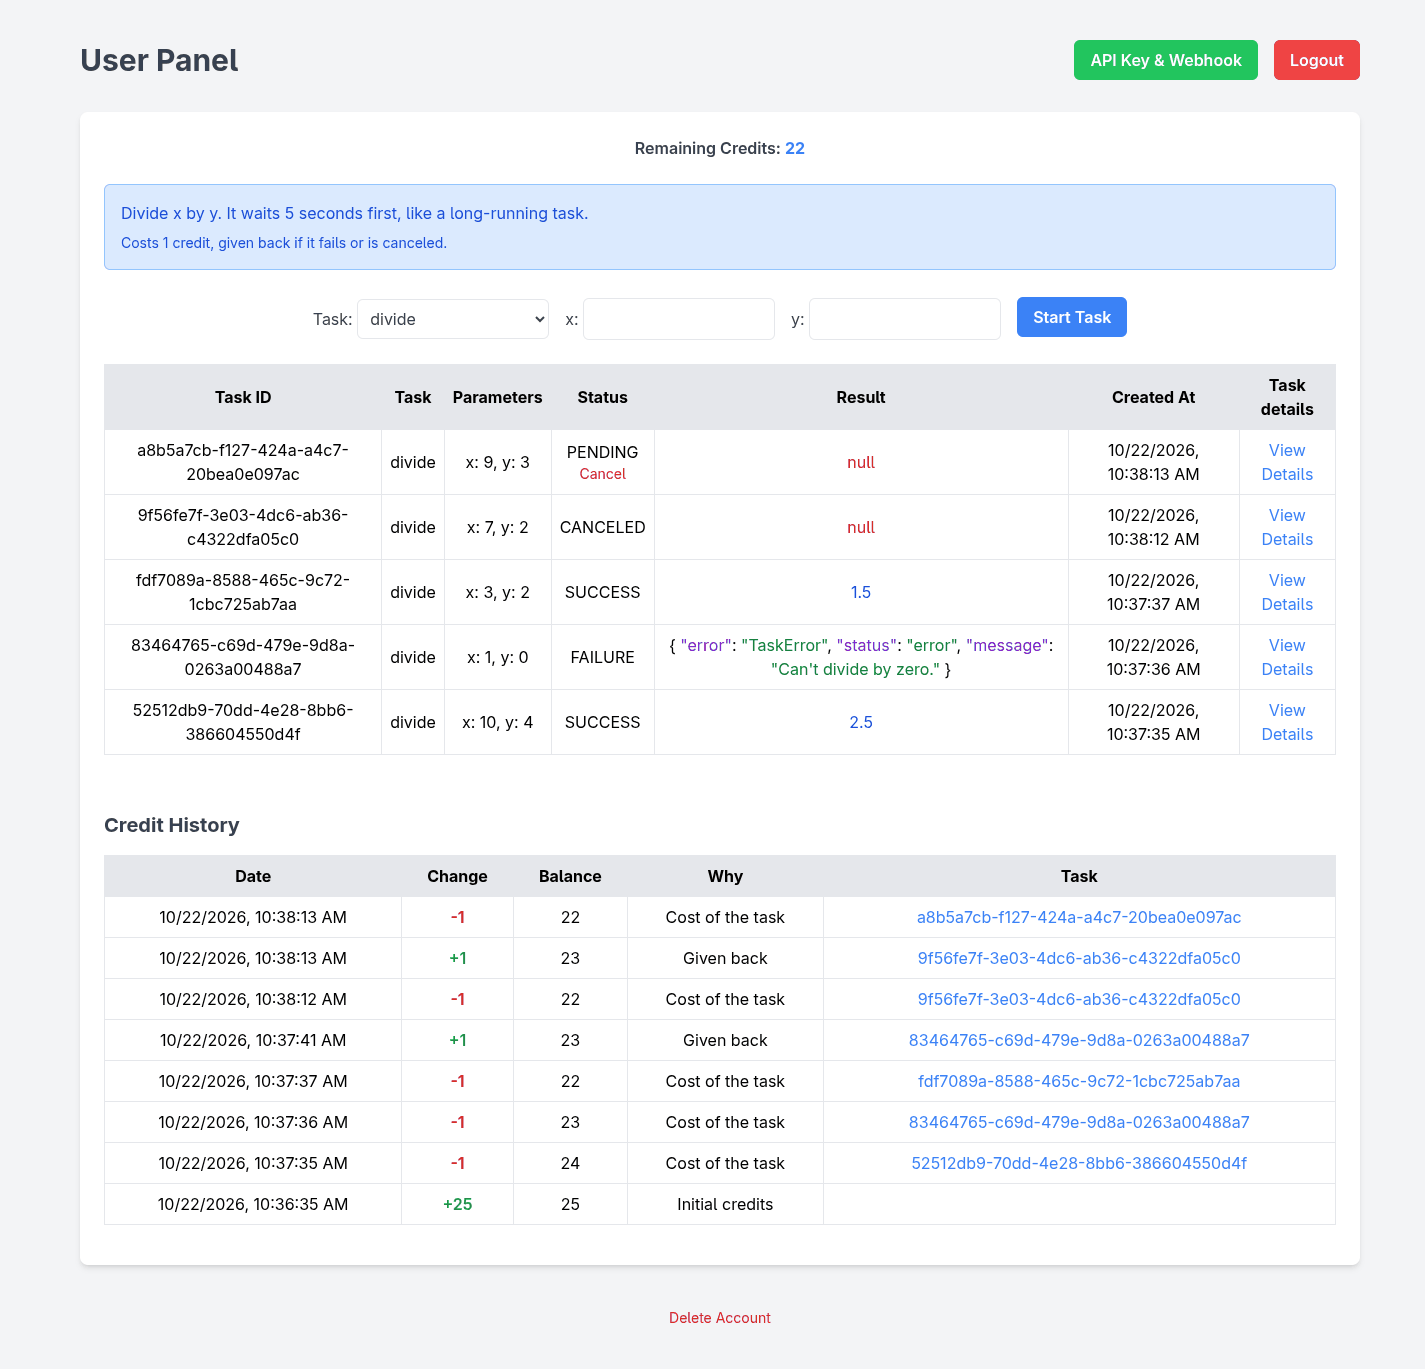
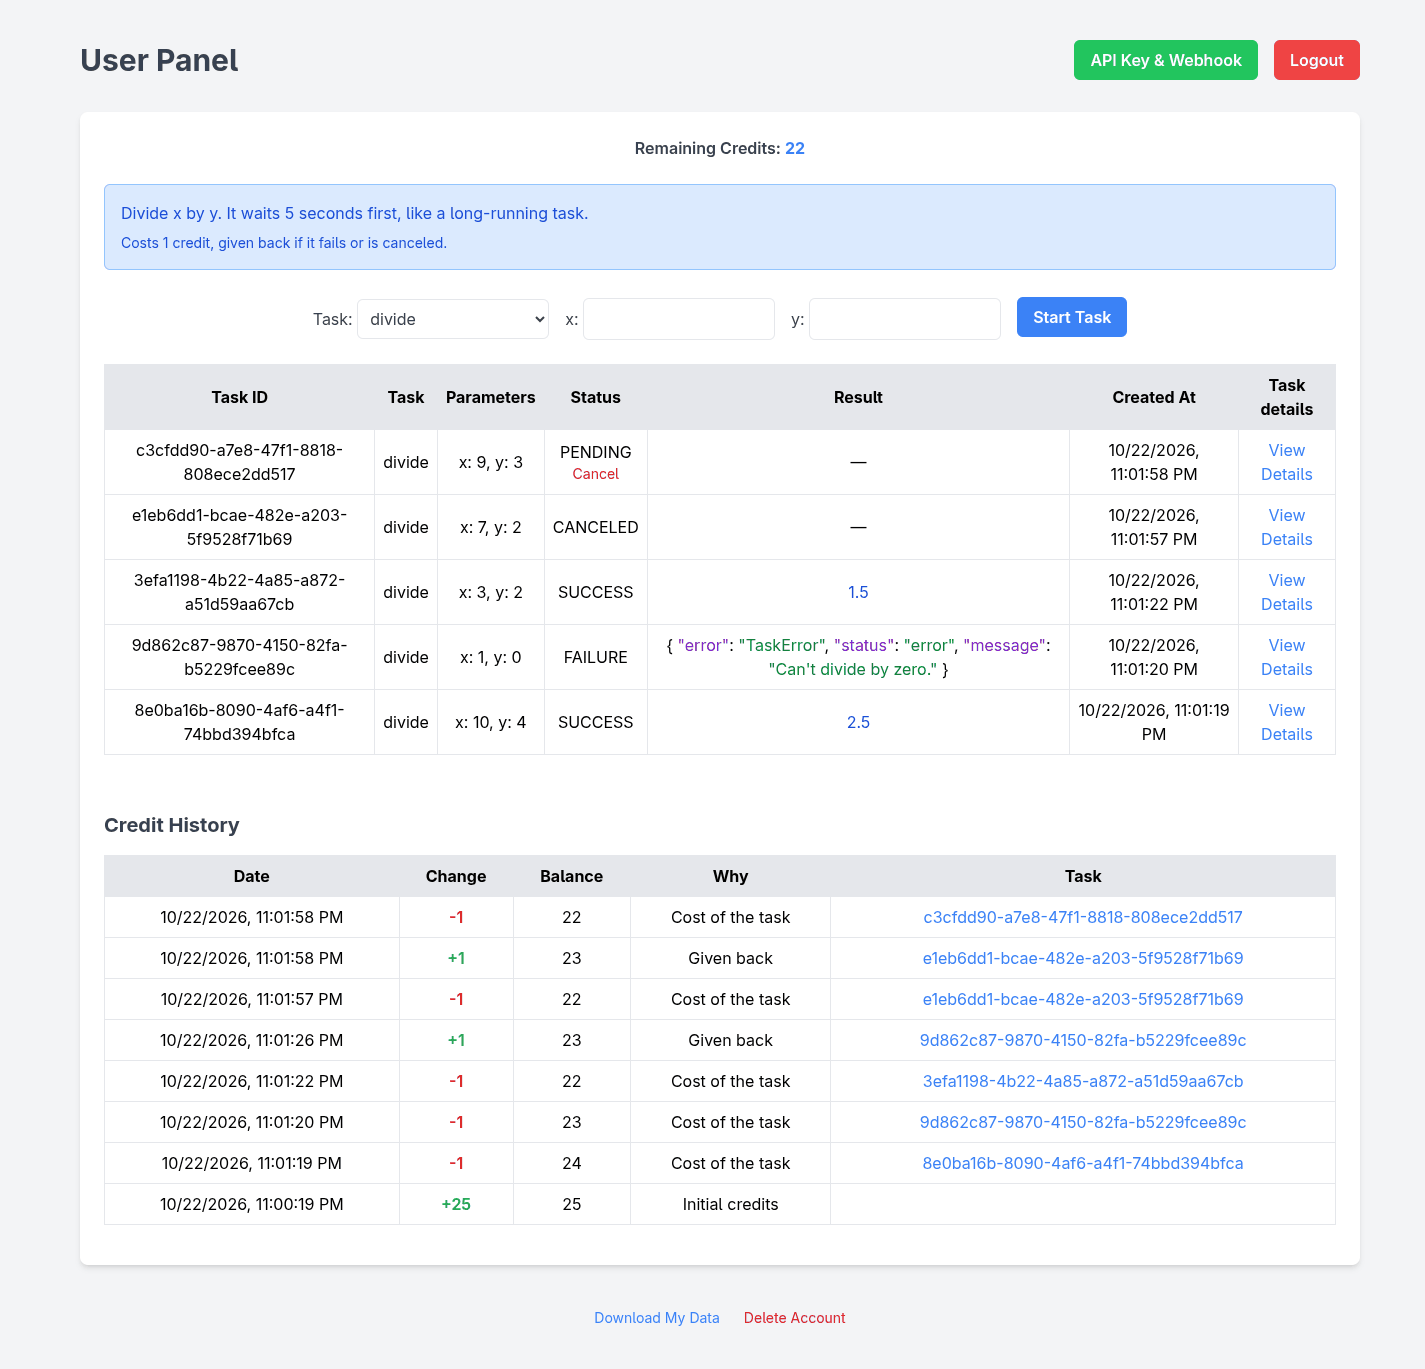
Showing a dash as the result of pending and canceled tasks, with the README's screenshot taken again, and letting browsers keep the static files for a year when their URL has their hash.

diff --git a/web/templates/task_details.html b/web/templates/task_details.html
@@ -24,7 +24,7 @@
             <p class="text-gray-700"><strong>Cost in credits:</strong> <span x-text="task.cost"></span></p>
             <p class="text-gray-700"><strong>Created At:</strong> <span x-text="task.created_at"></span></p>
             <p class="text-gray-700 mt-4"><strong>Result:</strong></p>
-            <pre class="mt-1 p-3 bg-gray-50 border border-gray-200 rounded-md text-sm overflow-x-auto"><code x-effect="showJson($el, task.result)"></code></pre>
+            <pre class="mt-1 p-3 bg-gray-50 border border-gray-200 rounded-md text-sm overflow-x-auto"><code x-effect="showResult($el, task)"></code></pre>
             <a href="{{ root_prefix }}/userpanel" class="mt-4 inline-block bg-blue-500 hover:bg-blue-600 text-white font-semibold py-2 px-4 rounded-md">
                 Back to Dashboard
             </a>

diff --git a/web/static/task_details.js b/web/static/task_details.js
@@ -35,9 +35,15 @@ function taskDetails() {
             return JSON.stringify(this.task.parameters, null, 2);
         },
 
-        // The result's JSON, with its colors, in the element.
-        showJson(element, value) {
-            element.innerHTML = highlightJson(value);
+        // The result in the element: its JSON, with its colors, once the task ended,
+        // as SUCCESS or FAILURE, and a dash before, or if it was canceled. A task
+        // that returned None has null.
+        showResult(element, task) {
+            if (['SUCCESS', 'FAILURE'].includes(task.status)) {
+                element.innerHTML = highlightJson(task.result);
+            } else {
+                element.textContent = '—';
+            }
         },
 
         fetchTaskDetails(taskId) {

diff --git a/web/static/user_panel.js b/web/static/user_panel.js
@@ -132,9 +132,15 @@ function taskManager() {
             return JSON.stringify(option);
         },
 
-        // A result's JSON, with its colors, in the element.
-        showJson(element, value) {
-            element.innerHTML = highlightJson(value);
+        // A task's result in the element: its JSON, with its colors, once it ended,
+        // as SUCCESS or FAILURE, and a dash before, or if it was canceled. A task
+        // that returned None has null.
+        showResult(element, task) {
+            if (['SUCCESS', 'FAILURE'].includes(task.status)) {
+                element.innerHTML = highlightJson(task.result);
+            } else {
+                element.textContent = '—';
+            }
         },
 
         // The page of a task, or of a movement's task.

diff --git a/web/templates/user_panel.html b/web/templates/user_panel.html
@@ -122,7 +122,7 @@
                                         <button x-on:click="cancelTask(task)" class="block mx-auto text-sm text-red-600 hover:underline">Cancel</button>
                                     </template>
                                 </td>
-                                <td class="border p-2 text-center" x-effect="showJson($el, task.result)"></td>
+                                <td class="border p-2 text-center" x-effect="showResult($el, task)"></td>
                                 <td class="border p-2 text-center" x-text="task.created_at"></td>
                                 <td class="border p-2 text-center">
                                     <a :href="detailsUrl(task)" class="text-blue-500 hover:underline">View Details</a>

diff --git a/web/static/json.js b/web/static/json.js
@@ -1,6 +1,6 @@
 // highlightJson(value): the value as JSON, in HTML, with its keys, strings,
 // numbers, and true, false and null in spans of Tailwind colors. The pages put
-// it in an element's innerHTML with showJson(), from x-effect: Alpine's CSP
+// it in an element's innerHTML with showResult(), from x-effect: Alpine's CSP
 // build has no x-html.
 // scripts/build_css.py reads this file too, for these classes.
 

diff --git a/main_api.py b/main_api.py
@@ -58,7 +58,8 @@ from tortoise.transactions import in_transaction
 
 from fastapi.staticfiles import StaticFiles
 
-from starlette.datastructures import Headers, MutableHeaders
+from starlette.datastructures import Headers, MutableHeaders, QueryParams
+from starlette.responses import Response
 
 from pydantic import BaseModel, ConfigDict, Field, create_model
 
@@ -238,7 +239,31 @@ app.add_middleware(SecurityHeadersMiddleware)
 
 # Mount static files directory
 STATIC_DIRECTORY = Path("web/static")
-app.mount("/web/static", StaticFiles(
+# How browsers and proxies keep a static file whose URL has the hash of what the
+# server has, from static_url(): for a year, without asking for it again, even
+# when the page reloads. The next version of the file has another URL.
+CACHE_FOR_A_YEAR = "public, max-age=31536000, immutable"
+
+
+class VersionedStaticFiles(StaticFiles):
+    """
+    The files of web/static, kept for a year when their URL has their hash
+    (see static_url()). Not others, nor one with another hash: in a deploy,
+    a page's new URL may reach a server that still has the old file.
+    """
+
+    async def get_response(self, path: str, scope) -> Response:
+        response = await super().get_response(path, scope)
+        version = QueryParams(scope["query_string"]).get("v")
+        # A 304 too, for a browser that asks again anyway.
+        if version is not None and response.status_code in (200, 304):
+            file = STATIC_DIRECTORY / path
+            if version == content_version(file, file.stat().st_mtime_ns):
+                response.headers["Cache-Control"] = CACHE_FOR_A_YEAR
+        return response
+
+
+app.mount("/web/static", VersionedStaticFiles(
         directory=STATIC_DIRECTORY
     ),
     name="static"
@@ -254,10 +279,9 @@ def content_version(path: Path, modified: int) -> str:
 def static_url(name: str) -> str:
     """
     The URL of a file of web/static for the templates, with ?v= and a hash
-    of its contents. The files are served without Cache-Control, so browsers
-    reuse them for a while without asking, guessing from how old they are.
-    With the hash, a file's URL changes with it: after a deploy that changes
-    it, browsers get the new one.
+    of its contents. With the hash, a file's URL changes with it, so browsers
+    keep each one for a year without asking for it again (see
+    VersionedStaticFiles): after a deploy that changes it, they get the new one.
     """
     path = STATIC_DIRECTORY / name
     return f"{root_prefix}/web/static/{name}?v={content_version(path, path.stat().st_mtime_ns)}"

diff --git a/tests/test_pages.py b/tests/test_pages.py
@@ -13,6 +13,8 @@ pytestmark = pytest.mark.anyio
 
 REPO = Path(__file__).resolve().parent.parent
 EXPIRED = datetime.timedelta(minutes=-1)
+# How the static files whose URL has their hash are cached: for a year, without asking again.
+YEAR = "public, max-age=31536000, immutable"
 
 
 async def test_public_pages_and_static_files(anon):
@@ -83,6 +85,21 @@ def test_the_url_of_a_static_file_changes_with_it(app_module, tmp_path, monkeypa
     modified = script.stat().st_mtime_ns + 1_000_000_000
     os.utime(script, ns=(modified, modified))
     assert app_module.static_url("app.js") == f"/web/static/app.js?v={hashlib.sha256(b'two').hexdigest()[:12]}"
+
+
+async def test_a_static_file_with_its_hash_is_kept_for_a_year(anon, app_module):
+    # As the templates link it: its URL changes with it.
+    url = app_module.static_url("json.js")
+    r = await anon.get(url)
+    assert (r.status_code, r.headers["cache-control"]) == (200, YEAR)
+    # A browser that asks again anyway gets a 304, which says so too.
+    r = await anon.get(url, headers={"If-None-Match": r.headers["etag"]})
+    assert (r.status_code, r.headers["cache-control"]) == (304, YEAR)
+    # Not without the hash, nor with another one, like a URL of an old page after a
+    # deploy, or a new one that reaches a server not updated yet: it isn't that file.
+    for other in ("/web/static/json.js", "/web/static/json.js?v=000000000000", f"{url}0"):
+        r = await anon.get(other)
+        assert (r.status_code, r.headers.get("cache-control")) == (200, None), other
 
 
 def test_the_pages_load_their_scripts_and_styles_from_this_server():
@@ -161,3 +178,5 @@ async def test_pages_and_links_with_a_root_path(prefixed_server):
         assert 'href="/nanosaas/web/static/tailwind.css?v=' in r.text
         assert '<img src="/nanosaas/web/static/nanosaas_logo.svg?v=' in r.text
         assert (await client.get("/nanosaas/web/static/nanosaas_logo.svg")).status_code == 200
+        css = re.search(r'href="(/nanosaas/web/static/tailwind\.css\?v=\w+)"', r.text).group(1)
+        assert (await client.get(css)).headers["cache-control"] == YEAR

diff --git a/README.md b/README.md
@@ -255,7 +255,7 @@ It replaces the whole database, in a single transaction: if anything fails, the 
     ```
 
    Return plain Python values (dicts, lists, numbers or strings): TaskIQ turns them into JSON. Don't return `json.dumps(...)`: the result would be saved as a string, and the API would show it with escaped quotes.
-7. Customize the pages in `web/templates/`. Put images, icons and other static files in `web/static/`: they are served at `/web/static/`. In the templates, get their URLs with `static_url()`, as the logo in `login.html` does: `{{ static_url('nanosaas_logo.svg') }}`. It adds the `ROOT_PATH`, and a hash of the file, so after a deploy that changes it, browsers get the new one instead of reusing the copy they kept.
+7. Customize the pages in `web/templates/`. Put images, icons and other static files in `web/static/`: they are served at `/web/static/`. In the templates, get their URLs with `static_url()`, as the logo in `login.html` does: `{{ static_url('nanosaas_logo.svg') }}`. It adds the `ROOT_PATH`, and a hash of the file, so its URL changes with it: browsers keep each file for a year without asking for it again, even when the page reloads (`Cache-Control: immutable`), and after a deploy that changes it, they get the new one. A URL without the hash, or with another one, isn't kept that long.
 
    The pages' scripts are files there too, like `user_panel.js` for `user_panel.html`, and take the `ROOT_PATH` from the `data-root-prefix` of the page's `<html>`. Every response has a Content-Security-Policy (`CONTENT_SECURITY_POLICY` in `main_api.py`) that lets the pages load only this server's files, and blocks scripts and styles written in the page, like `<script>` blocks and `onclick` or `style` attributes: the usual way injected HTML runs its code. For events, use the attributes of Alpine.js, like `x-on:click`, or listeners in the page's script. The policy has no `'unsafe-eval'`: the pages load Alpine.js's CSP build, which reads the expressions of its attributes itself, instead of running them as JavaScript. They can use the component's data and methods, with operators, comparisons and calls, but not arrow functions, template literals, `?.`, `??`, `new`, nor globals like `JSON` or `confirm`, and there's no `x-html`: put that code in the component's methods, in the page's script, as `user_panel.js` does, and register the component with `Alpine.data()`. The tests fail if a template's expressions use them. To load something from another site, add it to the policy. With the policy and `X-Frame-Options: DENY`, no site can show the pages in a frame. The responses also have `X-Content-Type-Options: nosniff` and `Referrer-Policy: same-origin`. The docs, at `/docs` and `/redoc`, go without the policy: FastAPI makes their pages with inline scripts, which load Swagger UI and ReDoc from a CDN.
 
